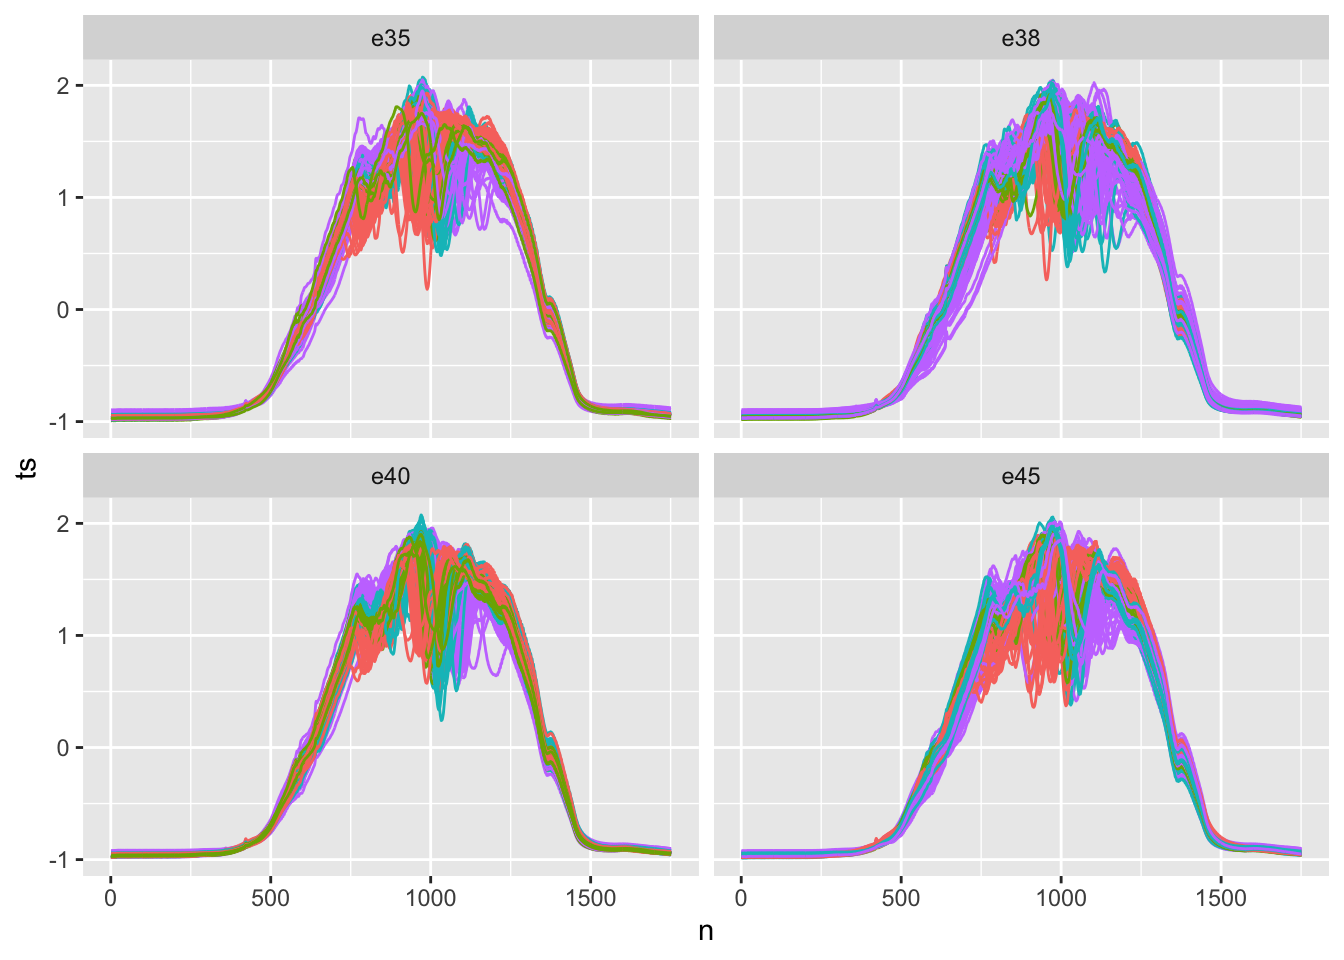
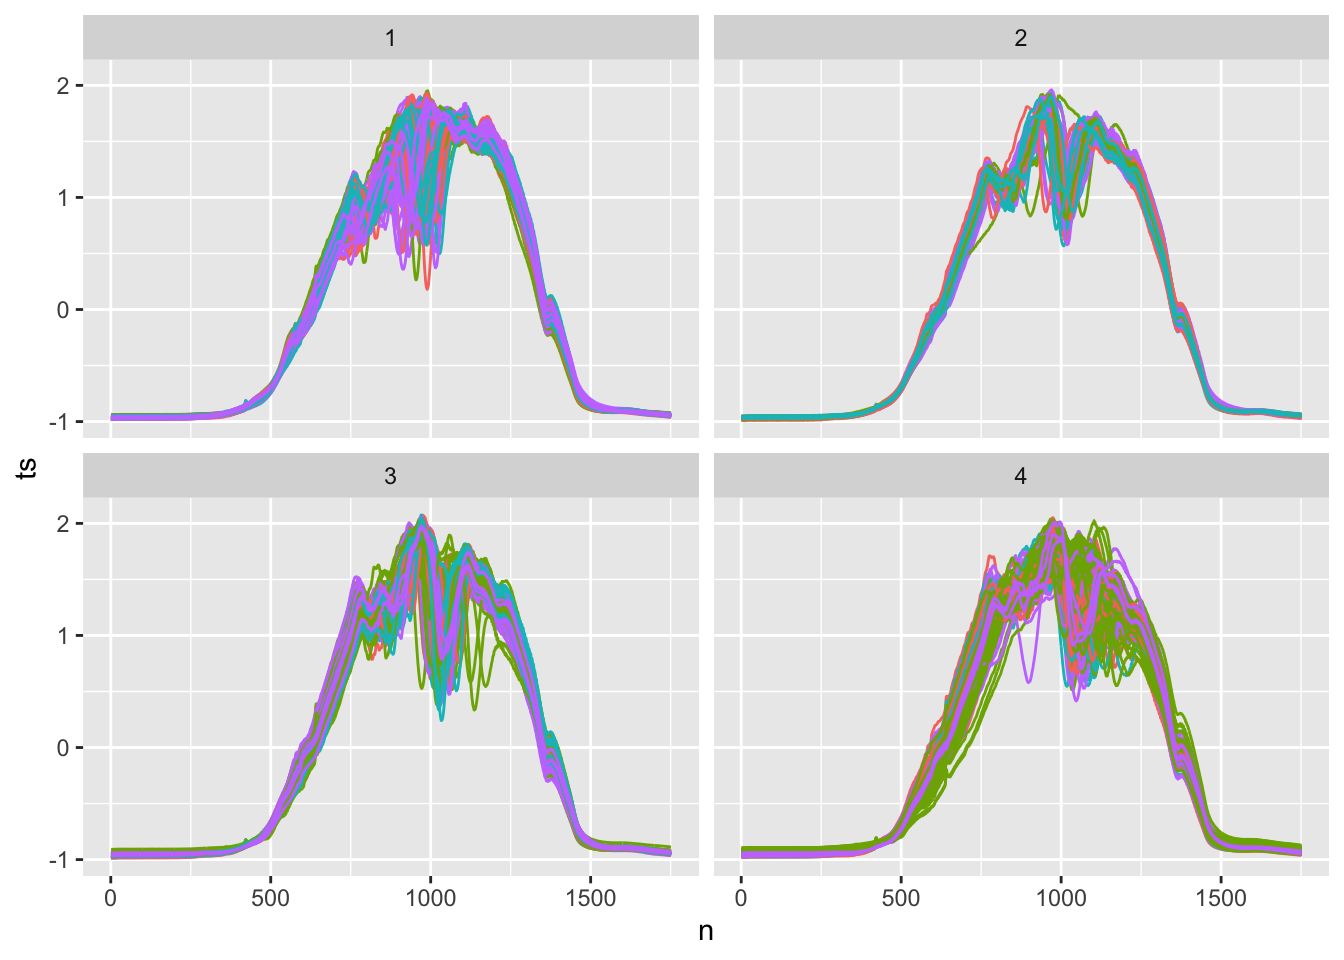
new ts changes

diff --git a/content/blog/2020-08-13-dynamic-time-warping-time-series-clustering/index.html b/content/blog/2020-08-13-dynamic-time-warping-time-series-clustering/index.html
@@ -21,6 +21,10 @@ output:
 </ul></li>
 <li><a href="#dynamic-time-warping">Dynamic Time Warping</a></li>
 <li><a href="#clustering-time-series">Clustering Time Series</a></li>
+<li><a href="#todo">TODO</a>
+<ul>
+<li><a href="#additional-clusters">Additional Clusters</a></li>
+</ul></li>
 </ul>
 </div>
 
@@ -124,7 +128,7 @@ warping similarity metric. <code>step_dtw</code> uses the excellent
 <em>objective</em> and <em>subjective</em> criteria.</p>
 <p>Subjective criteria include</p>
 <ul>
-<li><p>visualizing is the “shape” of time series within clusters to see if there is a
+<li><p>visualizing the “shape” of time series within clusters to see if there is a
 pattern. If the shape isn’t obvious, you can try alternative methods or
 increase the number of clusters. Visualizations of noisy, high-frequency
 time series may not be useful. In this case, you may want to visualize
@@ -143,33 +147,79 @@ there may be a small portion of labeled data to evaluate against.</p></li>
 </ul>
 <p>Four classes are known ahead of time, so it seems reasonable to start with
 four clusters.</p>
-<p><img src="/blog/2020-08-13-dynamic-time-warping-time-series-clustering/index_files/figure-html/unnamed-chunk-12-1.png" width="672" /></p>
+<p>I always start with visualizing the time series within each cluster.</p>
 <p><img src="/blog/2020-08-13-dynamic-time-warping-time-series-clustering/index_files/figure-html/unnamed-chunk-13-1.png" width="672" /></p>
+<p>Visually, there are distinct shapes within each cluster. Clusters 2 and 3
+both have a clear middle dip. Cluster 1 has very few wiggles on the right, and
+cluster 4 is almost its mirror image, with few wiggles on the left.</p>
+<p>All clusters seem a little clutter: especially 1 and 4 with all the wiggles
+on the left and right respectively.</p>
+<p>Comparing the “shape” of the clusters to the shape of the individual classes,
+there doesn’t seem to be a lot of obvious similarity.</p>
+<p><img src="/blog/2020-08-13-dynamic-time-warping-time-series-clustering/index_files/figure-html/unnamed-chunk-14-1.png" width="672" /></p>
+<p>The actual classes of the time series do not visually group into distinct
+shapes, indicating to me there is a lot of variation within each class.</p>
 <pre><code>## # weights:  20 (12 variable)
 ## initial  value 698.692358 
 ## iter  10 value 687.319518
 ## final  value 687.085208 
 ## converged</code></pre>
+<p>Predicting the class based on the cluster is only 31% accurate. Better than
+random chance (25%), but still not great.</p>
 <pre><code>## # A tibble: 2 x 3
 ##   pred_correct     n percent
 ##   &lt;lgl&gt;        &lt;int&gt;   &lt;dbl&gt;
 ## 1 FALSE          344   0.683
 ## 2 TRUE           160   0.317</code></pre>
+<p>Based on this analysis, I bet the clustering will be more useful if there are
+more clusters. While each cluster has a unique shape, there is still a lot of
+clutter. Moreover, we see a large amount of variation within each class.
+There will need to be more clusters to capture that variation.</p>
+</div>
+<div id="todo" class="section level2">
+<h2>TODO</h2>
+<p>One of the most expensive parts of <code>tsclust</code> is calculating the distance matrix.
+If we could presupply the distance matrix as an option to step_dtw
+(or another step entirely), then we could significantly speed up the process.</p>
+<p>what about <code>step_proxy</code> and use different clustering methods against that?</p>
 <pre><code>## # weights:  36 (24 variable)
 ## initial  value 698.692358 
 ## iter  10 value 673.785513
 ## iter  20 value 670.536846
 ## final  value 670.457844 
 ## converged</code></pre>
+<p>With 8 clusters, there are more definition to the shapes, and a lot less clutter.</p>
+<p><img src="/blog/2020-08-13-dynamic-time-warping-time-series-clustering/index_files/figure-html/unnamed-chunk-19-1.png" width="672" /></p>
 <pre><code>## # A tibble: 2 x 3
 ##   pred_correct     n percent
 ##   &lt;lgl&gt;        &lt;int&gt;   &lt;dbl&gt;
 ## 1 FALSE          330   0.655
 ## 2 TRUE           174   0.345</code></pre>
-<p><img src="/blog/2020-08-13-dynamic-time-warping-time-series-clustering/index_files/figure-html/unnamed-chunk-19-1.png" width="672" /></p>
+<p>Additionally, there is a 3% increase in accuracy.</p>
+<div id="additional-clusters" class="section level3">
+<h3>Additional Clusters</h3>
+<p>You may have noticed that running <code>step_dtw</code> takes a long time.
+The bottleneck is calculating the dynamic time warping distance.
+Most implementations
+have a computational complexity of <span class="math inline">\(O(N^2)\)</span><a href="#fn3" class="footnote-ref" id="fnref3"><sup>3</sup></a>
+to calculate the distance between two time series,
+and that calculation must happen between <em>every pair</em> of time series
+in the dataset to cluster.</p>
+<p>Fortunately, the <code>dtwclust</code> interface lets you precompute the the similarity
+matrix and supply that to the cluster algorithms. Care must be taken here
+to avoid data leakage (see the section below).</p>
+<pre><code>## [1] &quot;/Users/Tim/website2/blogdown/submodules/tsrecipes/vignettes&quot;</code></pre>
+<pre><code>## # A tibble: 5 x 2
+##       k  mean
+##   &lt;dbl&gt; &lt;dbl&gt;
+## 1     4 0.315
+## 2     8 0.327
+## 3    16 0.371
+## 4    32 0.411
+## 5    64 0.476</code></pre>
 <p>Finding useful clusters requires setting enough distinct clusters.</p>
 <p>But finding these clusters is also sensitive to the many options
-you are select in <code>dtwclust::tsclust</code>.</p>
+available in <code>dtwclust::tsclust</code>.</p>
 <p>Theoretically, you could tune across the number of clusters,
 as well as cluster (and distance methods).</p>
 <p>It’s worth checking out <code>dtwclust::compare_clusterings</code> if you are
@@ -188,6 +238,7 @@ to avoid information leakage.</p>
 can create <a href="http://www.feat.engineering/resampling.html">information leakage</a>,
 make your model appear more effective than it actually is.</p>
 </div>
+</div>
 <div class="footnotes">
 <hr />
 <ol>
@@ -197,5 +248,11 @@ The UC Business Analytics
 series on clustering, covering dissimilarity measures to the final clustering
 algorithms.<a href="#fnref1" class="footnote-back">↩</a></p></li>
 <li id="fn2"><p><a href="https://www.r-bloggers.com/time-series-matching-with-dynamic-time-warping/" class="uri">https://www.r-bloggers.com/time-series-matching-with-dynamic-time-warping/</a><a href="#fnref2" class="footnote-back">↩</a></p></li>
+<li id="fn3"><p>
+Some improvements can be made. <code>dtwclust</code> offers <code>dtw_basic</code> by default,
+which is significantly faster, with fewer features.
+And the <a href="https://dl.acm.org/doi/10.1145/3230734">theoretical</a>
+computational complexity is <span class="math inline">\(O(n^2/\log\log(n))\)</span>, although I don’t know
+if this has been implemented anywhere, or if its technically feasible to do so.<a href="#fnref3" class="footnote-back">↩</a></p></li>
 </ol>
 </div>
